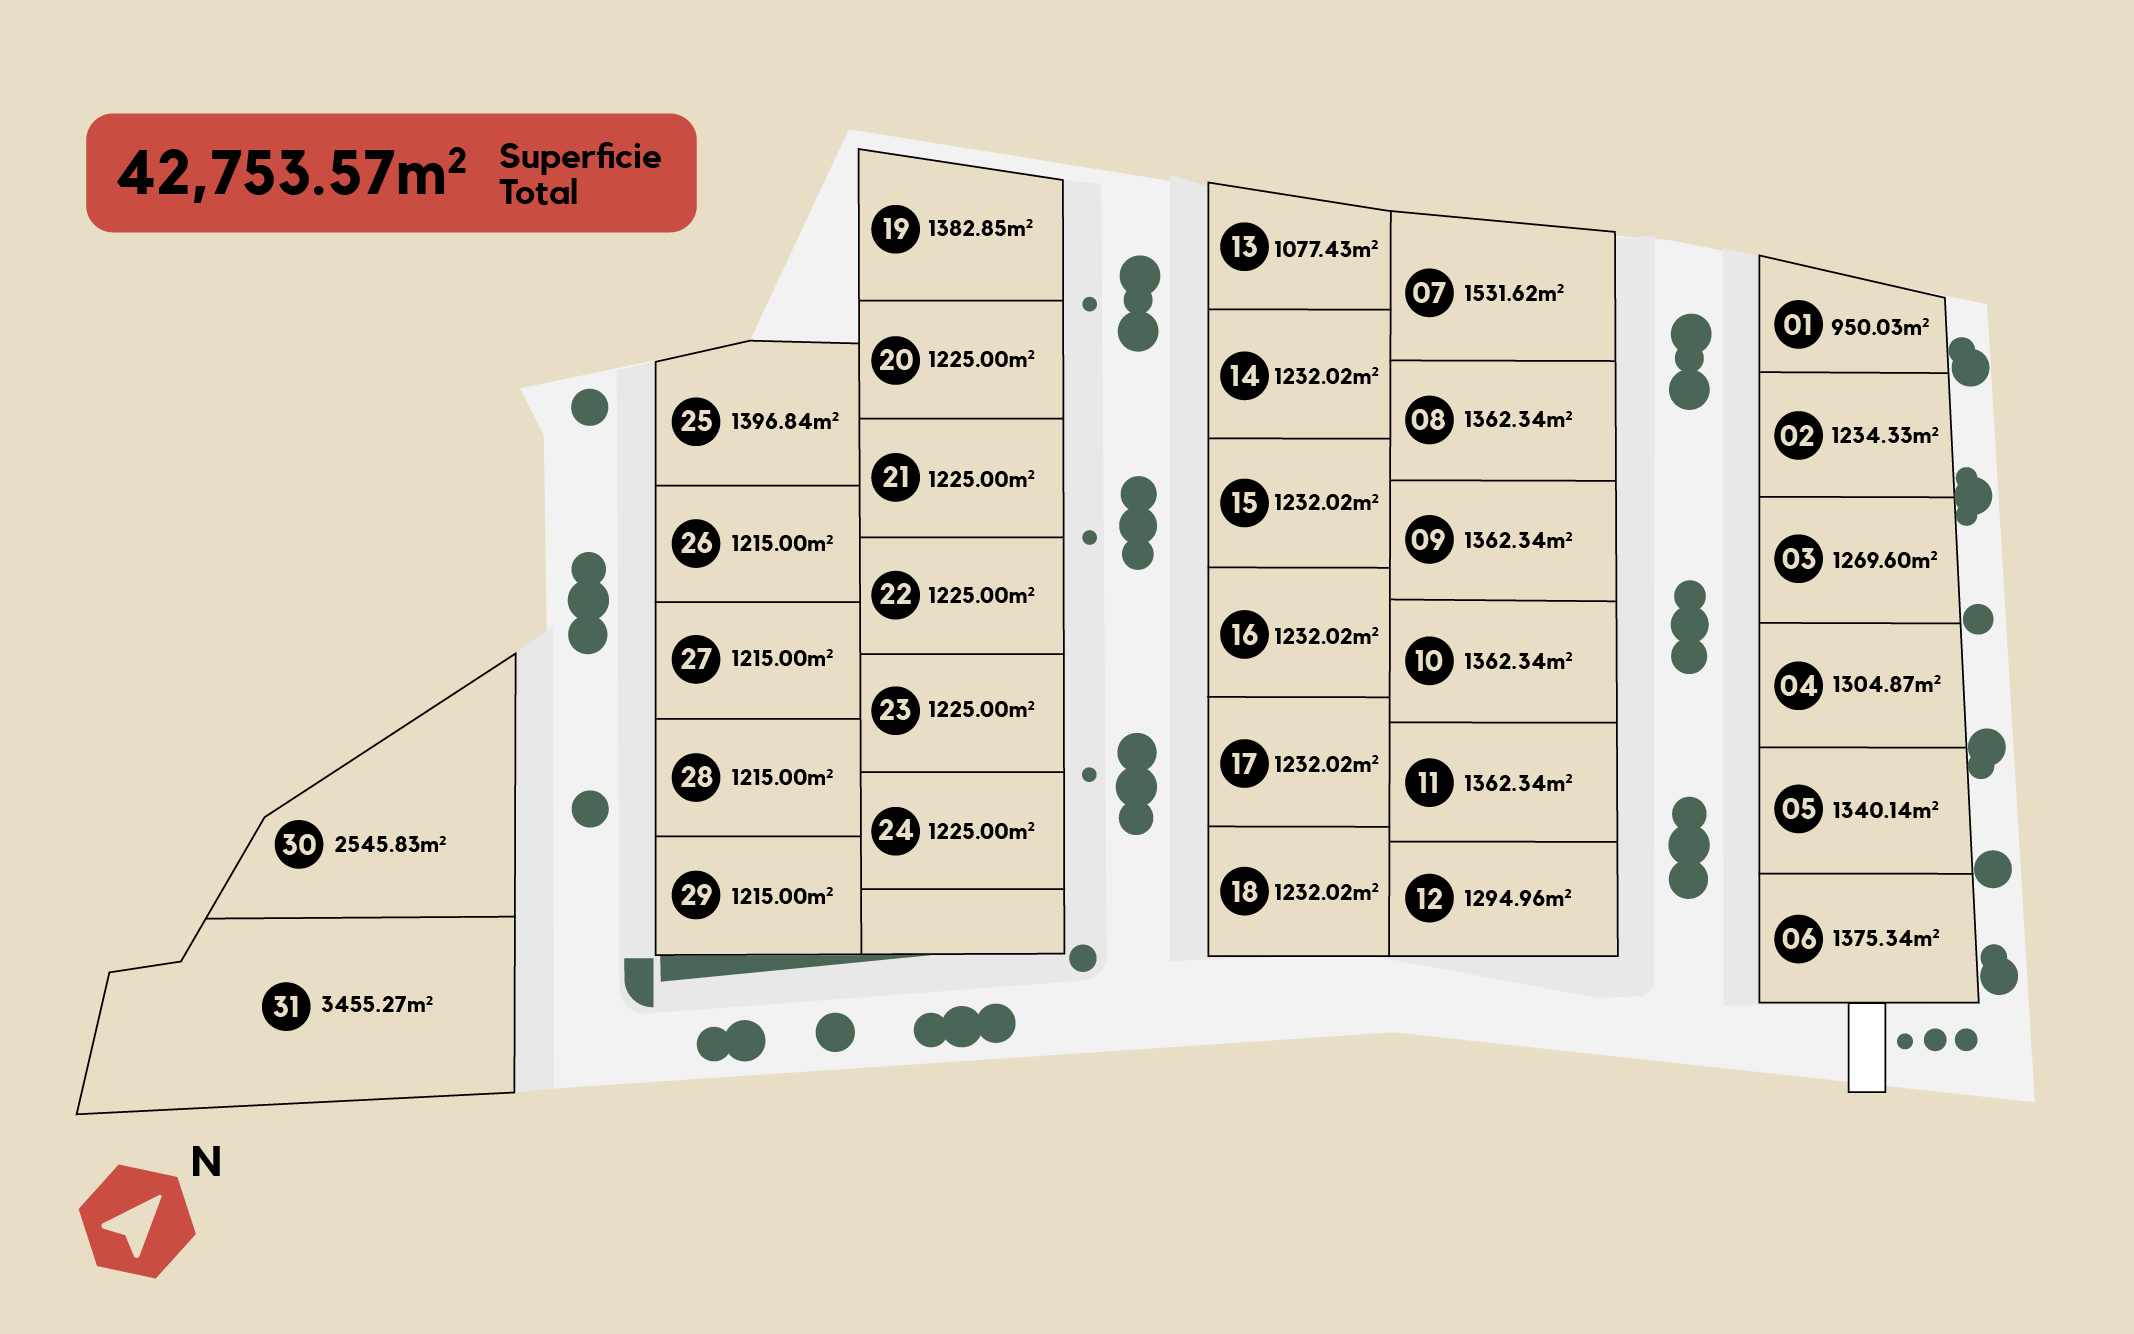
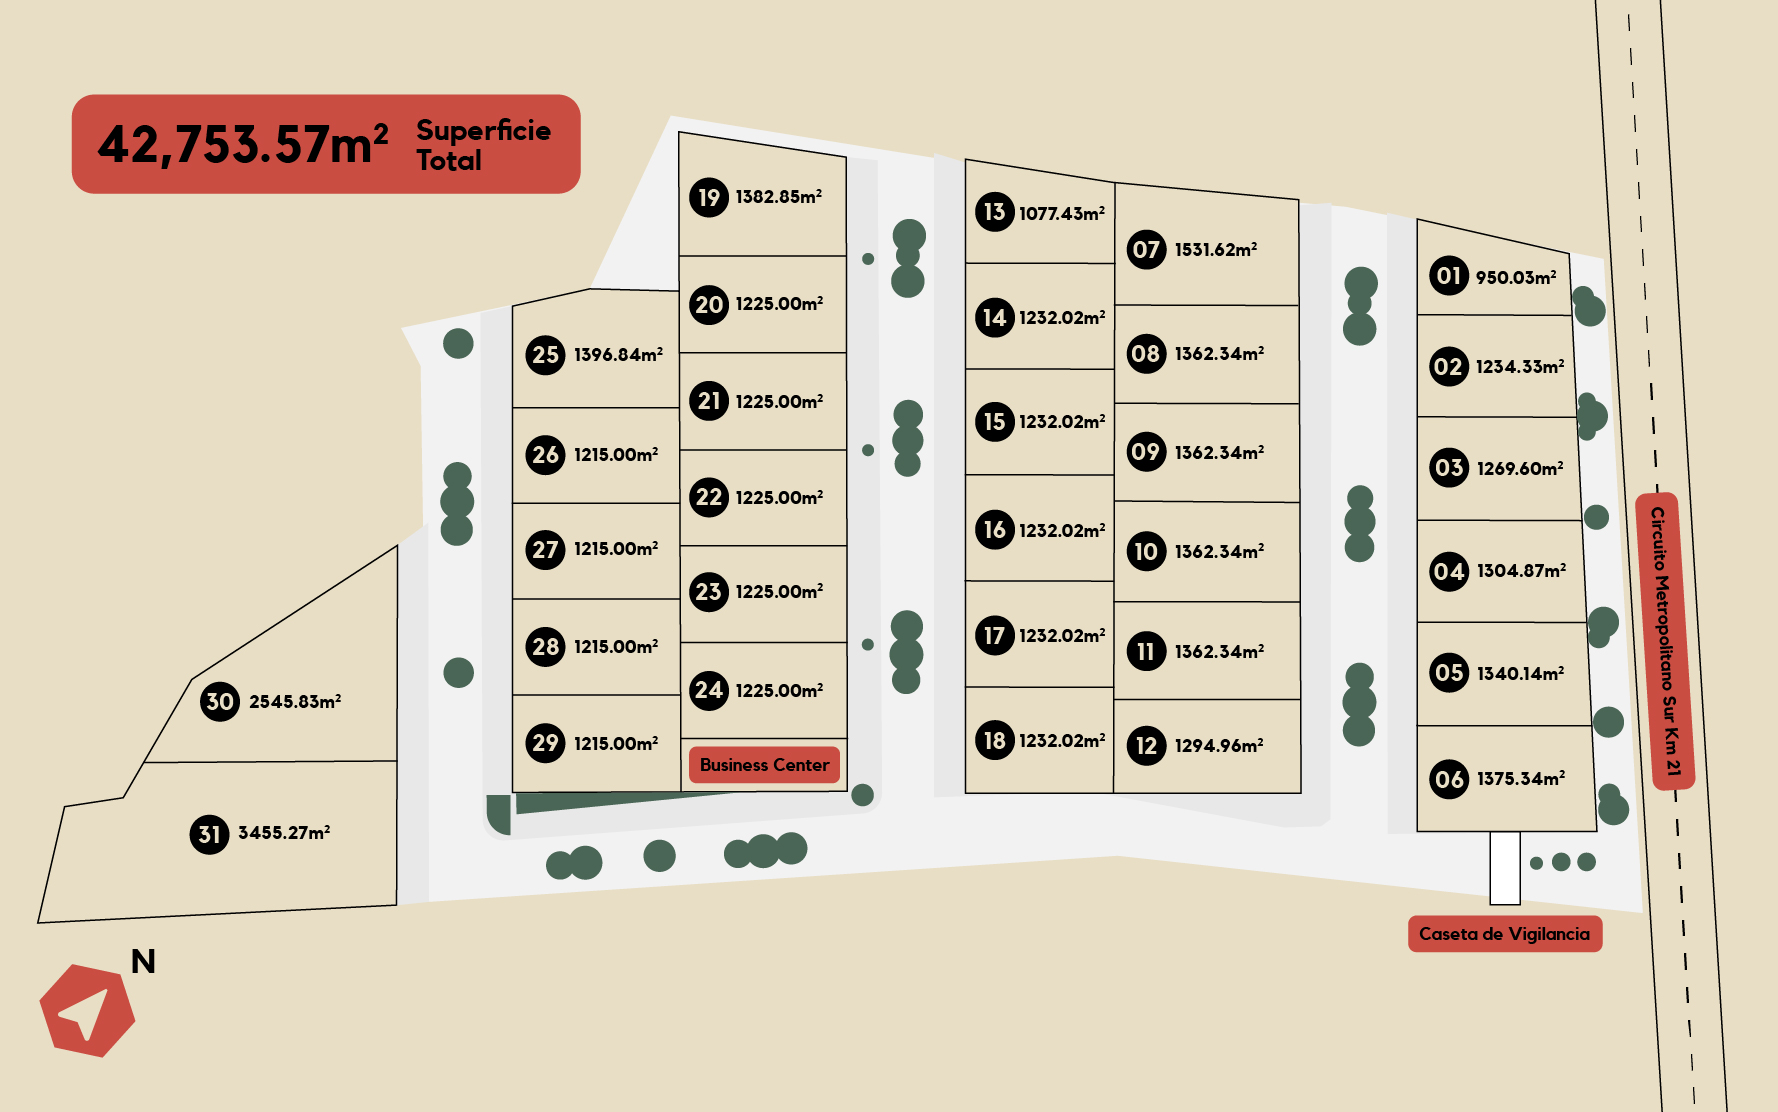
May 14
Added masterplan with streets and bc

diff --git a/index.html b/index.html
@@ -167,7 +167,7 @@
       <ul class="popup__list">
         <li>Área de descanso para choferes con regaderas y cocineta</li>
         <li>Espacio dedicado para resguardo de contenedores, con posibilidad de reserva</li>
-        <li>Vialidades internas amplias de de 16.90m libres para maniobras eficientes</li>
+        <li>Amplias vialidades internas con 16.9m libres</li>
       </ul>
     </div>
   </div>
